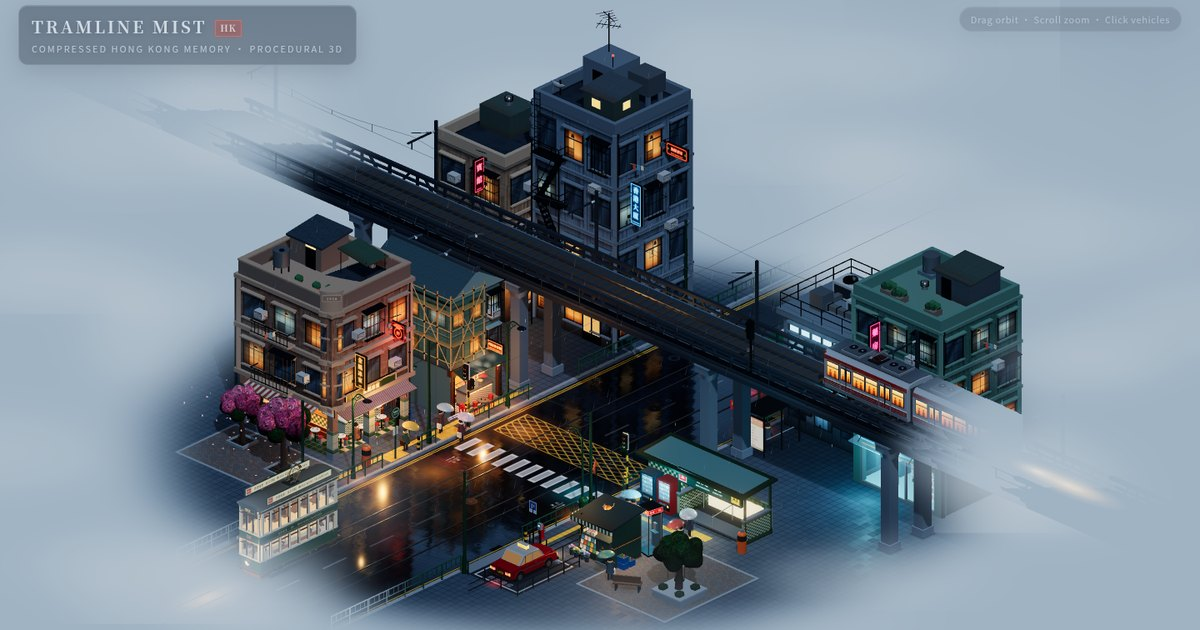
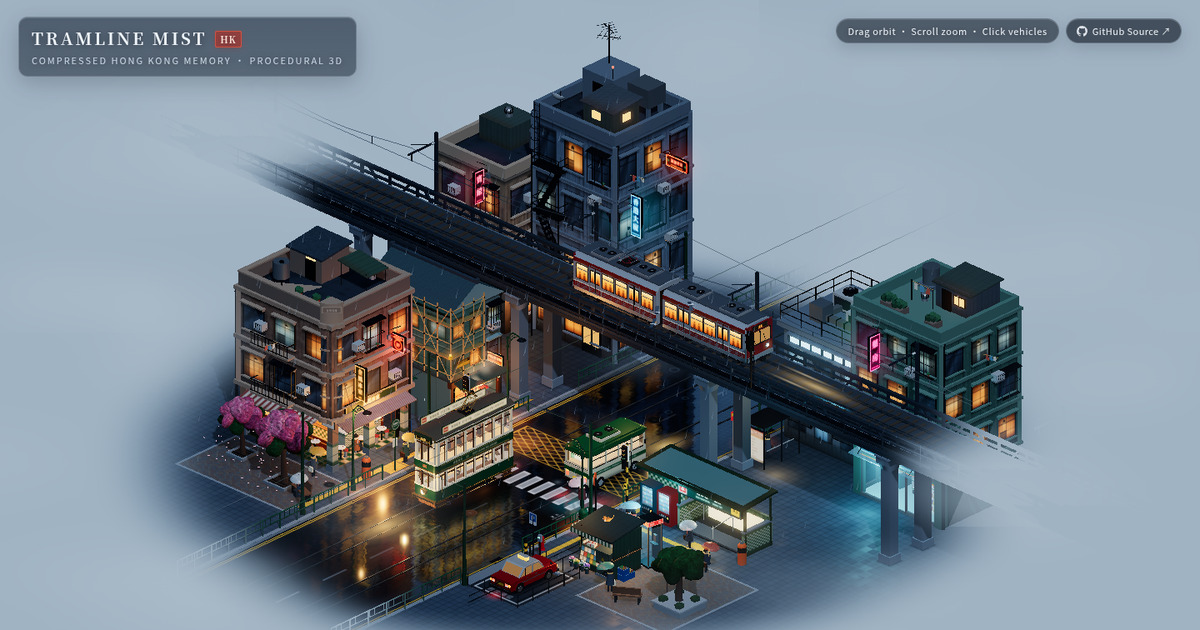
docs(readme,meta): sync 3,999-mesh specs and refresh Open Graph preview

diff --git a/README.md b/README.md
@@ -21,20 +21,21 @@ Built with **Three.js · TypeScript · Custom GLSL Shaders · Procedural Canvas 
 ## Core Graphics & Audio Architecture
 
 1. **Zero-Asset Procedural 3D Architecture, Living Street & Canvas PBR (`src/scene/buildings.ts`, `viaductAndVehicles.ts`, `propsAndLife.ts`, `textures.ts`)**
-   - Every architectural volume, double-decker tram (`#120` with sweeping rain wiper, wet-catenary micro-spark, teak benches, brass rails & passengers), **16-seat Green-Roof Hong Kong Minibus (`#28 銅鑼灣` with rotating wheels, twin wipers, backlit route placards & cabin silhouettes)**, elevated Kwun Tong Line viaduct with 2-car Metro-Cammell train, idling red Hong Kong taxi, 1958 curved Streamline Moderne *cha chaan teng* rooftop terrace, Chinese gable noodle shop with swaying red *dai pai dong* lamp, bamboo scaffold, stepped Kowloon companion tenement (`B6`), Wan Chai MTR Exit A3 canopy with dual-map backlit vending machines, **East Under-Viaduct Route 101 Bus Stop Shelter**, weeping banyan pocket park, illuminated vintage telephone booth, pillar postbox, **newspaper kiosk with animated ginger-white roof cat**, spinning rooftop whirlybird turbines & HVAC chiller fans, `望左/望右` tarmac stencils, and yellow tactile guide paths is constructed purely from TypeScript geometry and deterministic Canvas2D albedo/roughness/emissive/bump textures (**`3,822` meshes · `116,538` triangles · `~222 KB` gzipped**).
-   - **Synchronized 14-Second Hong Kong Traffic Signal & Articulated Life**: Full four-phase HK traffic lights (Vehicle Red → Red+Amber pre-green + 2.8 Hz Flashing Green Man → Vehicle Green → Amber) mathematically phase-locked to 28-second Tram #120 and Minibus #28 loops and 3 articulated strolling pedestrians (including a zebra-crossing walker who waits politely at the curb on red), plus gliding rain-mist pigeons and gravity-accelerated eave rain drips.
+   - Every architectural volume, double-decker tram (`#120` with sweeping rain wiper, wet-catenary micro-spark, rear ruby tail-glow, wheel mist spray, teak benches, brass rails & passengers), **16-seat Green-Roof Hong Kong Minibus (`#28 銅鑼灣` with rotating wheels, twin wipers, backlit route placards, sculpted twin-fan AC pod, sliding window mullions, interior `58 km/h` LED speedometer & cabin silhouettes)**, elevated Kwun Tong Line viaduct with under-soffit linear light fixtures and 2-car Metro-Cammell train (elongated dual-rail headlight glint & pantograph micro-sparks), idling red Hong Kong taxi, 1958 curved Streamline Moderne *cha chaan teng* rooftop terrace, Chinese gable noodle shop with rising broth steam & swaying red *dai pai dong* lamp, bamboo scaffold with **pulsing amber safety beacon (`地盤閃燈`) & bilingual caution banner**, stepped Kowloon companion tenement (`B6`), jade mosaic tenement (`B4`) with warm-lit rooftop shack & laundry line, Wan Chai MTR Exit A3 canopy with dual-map backlit vending machines, **East Under-Viaduct Route 101 Bus Stop Shelter**, airy layered Bauhinia & weeping banyan trees, illuminated vintage telephone booth, pillar postbox, **newspaper kiosk with animated ginger-white roof cat**, spinning rooftop whirlybird turbines & HVAC chiller fans, `望左/望右` tarmac stencils, and yellow tactile guide paths is constructed purely from TypeScript geometry and deterministic Canvas2D albedo/roughness/emissive/bump textures (**`3,999` meshes · `119,480` triangles · `~232 KB` gzipped**).
+   - **3D Glass Neon Tubes & Volumetric Monsoon Mist Halos**: Every projecting Hong Kong neon sign pairs 3D glowing glass perimeter trim tubes with preset-balanced humid-air additive mist halos.
+   - **Synchronized 14-Second Hong Kong Traffic Signal & Articulated Life**: Full four-phase HK traffic lights (Vehicle Red → Red+Amber pre-green + 2.8 Hz Flashing Green Man → Vehicle Green → Amber) mathematically phase-locked to 28-second Tram #120 and Minibus #28 loops, **live-colored wet-asphalt traffic-signal puddle reflections**, and 3 articulated strolling pedestrians (including a zebra-crossing walker who waits politely at the curb on red), plus gliding rain-mist pigeons and gravity-accelerated eave rain drips with ground impact splash ripples.
 
-2. **Orthographic-Compatible Planar Wet-Road Reflection & Radial Mist Shaders (`src/scene/roadAndReflections.ts`, `atmosphere.ts`)**
-   - **`PlanarWetReflector`**: Renders a live mirrored scene pass to a `512×512 HalfFloat` render target with zero per-frame object allocations, then applies a **9-tap anisotropic vertical-streaking wet-asphalt blur**, world-space micro-grain shimmer, **HDR soft-knee highlight compression**, and wet dark-tar Fresnel grading.
-   - **Injected World-Space Radial Mist (`applyRadialMistFade`)**: Patches Three.js PBR, `LineBasicMaterial`, and instanced materials via `onBeforeCompile` so roads, rails, viaducts, and distant depth-tested skyline silhouettes dissolve smoothly into mist with zero hard rectangular diorama edges.
-   - **Orthographic/Perspective Volumetric Light Cones (`createSoftLightConeMaterial`)**: Custom GLSL Fresnel + axial fade cones eliminating hard-edged cone silhouettes alongside 11 preset-balanced street/shop point lights (plus 3 vehicle-mounted point lights).
+2. **Orthographic-Compatible Rain-Rippled Planar Wet Reflection & Radial Mist Shaders (`src/scene/roadAndReflections.ts`, `atmosphere.ts`)**
+   - **`PlanarWetReflector`**: Renders a live mirrored scene pass to a **`768×768 HalfFloat`** render target with zero per-frame object allocations, then applies **procedural GLSL multi-cell expanding raindrop ripple normal perturbation**, a **9-tap anisotropic vertical-streaking wet-asphalt blur**, **HDR soft-knee highlight compression**, chromatic neon saturation preservation, and wet dark-tar Fresnel grading.
+   - **Injected World-Space Radial Mist (`applyRadialMistFade`)**: Patches Three.js PBR, `LineBasicMaterial`, and instanced materials via `onBeforeCompile` so roads, rails, viaducts, and north-west skyline silhouettes dissolve seamlessly into monsoon mist with zero hard diorama edges.
+   - **Orthographic/Perspective Volumetric Light Cones (`createSoftLightConeMaterial`)**: Custom GLSL Fresnel + axial fade cones eliminating hard-edged cone silhouettes alongside 12 preset-balanced street/shop/under-viaduct point lights (plus 3 vehicle-mounted point lights).
 
-3. **`[P]` Archival Axonometric Engraving & `[A]` Acoustic Field (`src/scene/weatherAndEffects.ts`)**
-   - **`[P]` Print Mode**: Dynamically swaps surfaces onto Xuan-paper matte shaders (`#F4EFE6`), extracts crisp `26°` `EdgesGeometry` architectural line art in Prussian blue, pine soot, and cinnabar red (highlighting the tram and taxi), feathers outer ink lines smoothly into Xuan-paper margins via radial mist fade, filters foliage and decorative micro-meshes (`skipPrintEdges`), keeps moving vehicles and walking pedestrians synced live, and properly disposes old GPU line buffers on re-entry.
-   - **`[A]` Acoustic Field Mode & Tapered GLSL Drizzle**: Visualizes live sound wavefronts radiating from neon transformers, tram rails, elevated viaduct trains, rainfall, and interactive vehicle bell/horn pulses, paired with tapered GLSL falling drizzle streaks, eave drips, and soft concentric puddle ripples.
+3. **`[P]` Archival Axonometric Engraving & `[A]` GLSL Spatial Acoustic Field (`src/scene/weatherAndEffects.ts`)**
+   - **`[P]` Print Mode & Built-In Hidden-Line Vector SVG Export**: Dynamically swaps surfaces onto Xuan-paper matte shaders (`#F4EFE6`) with delicate blush/celadon botanical washes for trees, extracts crisp `26°` `EdgesGeometry` architectural line art in Prussian blue, pine soot, and cinnabar red (highlighting Tram #120 and the red taxi), feathers outer ink lines smoothly into Xuan-paper margins via radial mist fade, filters foliage and decorative micro-meshes (`skipPrintEdges`), keeps moving vehicles and walking pedestrians synced live, and includes a built-in **3× orthographic 24-bit depth-buffered hidden-line-removed Vector SVG exporter** (`__SCENE_CTRL__.getPrintEdgeSVG`).
+   - **`[A]` GLSL Acoustic Field Mode & Tapered Drizzle**: Uses a custom multi-harmonic radial wavefront GLSL shader to visualize live sound wavefronts radiating from neon transformers, tram rails, elevated viaduct trains, Minibus #28, **phase-locked HK pedestrian crossing beeper pulses**, rainfall, and interactive vehicle bell/horn pulses, paired with tapered GLSL falling drizzle streaks, eave drips with impact ripples, and rising noodle-shop steam.
 
 4. **Procedural Hong Kong Web Audio Soundscape (`src/audio/hkSoundscape.ts`)**
-   - Synthesizes filtered stereo pink-noise monsoon rain with breeze LFO modulation, randomized tin-roof raindrop bandpass bursts, subtle Hong Kong 50/100 Hz neon ballast hum, proximity-modulated steel rail rumble, a 5-partial metallic double-ding tram bell (`1,285 Hz` / `1,302 Hz`), and polite dual-tone Hong Kong vehicle horns for the Green-Roof Minibus (`392/494 Hz`) and Red Taxi (`440/554 Hz`).
+   - Synthesizes filtered stereo pink-noise monsoon rain with breeze LFO modulation, randomized tin-roof raindrop bandpass bursts, subtle Hong Kong 50/100 Hz neon ballast hum, proximity-modulated steel rail rumble, **phase-locked Hong Kong audible pedestrian crossing piezo cadence** (`1.25 Hz` steady green → `6.25 Hz` flashing green → silent on red), a 5-partial metallic double-ding tram bell (`1,285 Hz` / `1,302 Hz`), and polite dual-tone Hong Kong vehicle horns for the Green-Roof Minibus (`392/494 Hz`) and Red Taxi (`440/554 Hz`).
 
 ---
 
